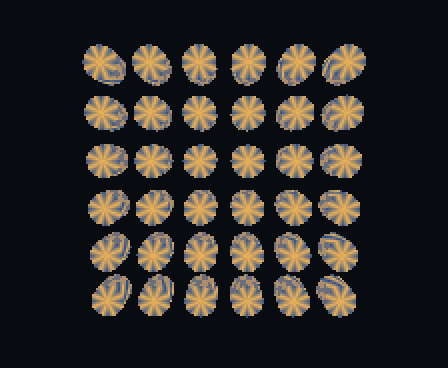
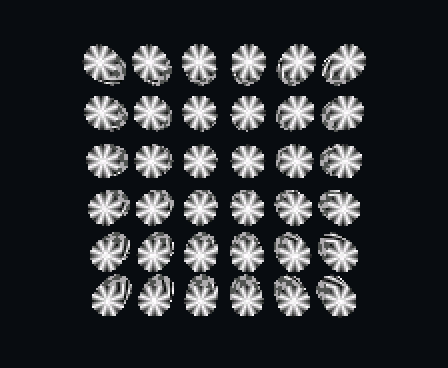
render_lab stress: noisy-tiny's slivers fail the small-fill gate at every side they take
Black and white noise puts every channel past the gate's resolved spread;
the test reads the spread from r3d_span_small_fill_resolve, not a constant.
One owner for a per-frame surface, the cylinder sized from its span.

Changed region(s): [[0.1875, 0.3886, 0.8125, 0.8668], [0.1875, 0.1196, 0.8125, 0.3587]]

diff --git a/launcher/main/apps/render_lab/stress/scene_stress.c b/launcher/main/apps/render_lab/stress/scene_stress.c
@@ -228,18 +228,19 @@ scene_stress_path(void) {
 
 /* A still preset can have frames generated: only the camera moves. */
 #define STRESS_SCENE_ROW(id_, key_, surface_, ...)                                                                     \
-    [STRESS_##id_] = {.name = "Stress " key_,                                                                          \
-                      .key = STRESS_SCENE "-" key_,                                                                    \
-                      .family = "Stress",                                                                              \
-                      .variant = key_,                                                                                 \
-                      .data = &stress_presets[STRESS_##id_],                                                           \
-                      .enter = scene_stress_enter,                                                                     \
-                      .frame = scene_stress_frame,                                                                     \
-                      .exit = scene_stress_exit,                                                                       \
-                      .update = scene_stress_update,                                                                   \
-                      .status = RENDER_LAB_SCENE_DEV(scene_stress_status),                                             \
-                      .controls = STRESS_SURFACE_##surface_ == STRESS_SURFACE_WAVE ? NULL : scene_baked_controls,      \
-                      .generates_frames = STRESS_SURFACE_##surface_ != STRESS_SURFACE_WAVE,                            \
-                      .path = scene_stress_path},
+    [STRESS_##                                                                                                         \
+        id_] = {.name = "Stress " key_,                                                                                \
+                .key = STRESS_SCENE "-" key_,                                                                          \
+                .family = "Stress",                                                                                    \
+                .variant = key_,                                                                                       \
+                .data = &stress_presets[STRESS_##id_],                                                                 \
+                .enter = scene_stress_enter,                                                                           \
+                .frame = scene_stress_frame,                                                                           \
+                .exit = scene_stress_exit,                                                                             \
+                .update = scene_stress_update,                                                                         \
+                .status = RENDER_LAB_SCENE_DEV(scene_stress_status),                                                   \
+                .controls = STRESS_SURFACE_IS_PER_FRAME(STRESS_SURFACE_##surface_) ? NULL : scene_baked_controls,      \
+                .generates_frames = !STRESS_SURFACE_IS_PER_FRAME(STRESS_SURFACE_##surface_),                           \
+                .path = scene_stress_path},
 
 const render_lab_scene_t scene_stress[STRESS_PRESET_COUNT] = {STRESS_PRESETS(STRESS_SCENE_ROW)};

diff --git a/launcher/main/apps/render_lab/tests/suite_stress_preset.c b/launcher/main/apps/render_lab/tests/suite_stress_preset.c
@@ -18,6 +18,7 @@
 #include "apps/render_lab/stress/stress_preset.h"
 #include "gfx/gfx.h"
 #include "image/pixel/rgb565.h"
+#include "math/scalar/math_const.h"
 #include "render/dynamic/r3d_dynamic_mesh.h"
 #include "render/r3d_span.h"
 
@@ -100,6 +101,11 @@ test_every_preset_mesh_is_whole_and_repeats(void) {
         TEST_ASSERT_TRUE(stress_source(p, 0, &f.at[1], &b));
         TEST_ASSERT_EQUAL_INT(stress_vertex_count(p), a.vertex_count);
         TEST_ASSERT_EQUAL_INT(stress_triangle_count(p), a.triangle_count);
+        for (int t = 0; t < a.triangle_count; t++) {
+            for (int k = 0; k < 3; k++) {
+                TEST_ASSERT_LESS_THAN_INT(a.vertex_count, a.triangles[t][k]);
+            }
+        }
         TEST_ASSERT_TRUE(same_source(&a, &b));
         release();
     }
@@ -271,7 +277,8 @@ test_two_sided_is_a_closed_shape_drawn_from_both_sides(void) {
     TEST_ASSERT_EQUAL_INT(STRESS_SHAPE_CUBE, stress_presets[STRESS_TWO_SIDED].shape);
 }
 
-/* The widest per-channel spread of a triangle's corners, in RGB565 units, as the small-fill gate measures it. */
+/* The widest per-channel spread of a triangle's corners, in RGB565 units, as the small-fill gate measures it: its
+ * packing keeps each 8-bit channel's top bits, as RGB565() does. */
 static int
 corner_spread(const r3d_dynamic_source_t* s, int t) {
     unsigned low[3] = {UINT32_MAX, UINT32_MAX, UINT32_MAX};
@@ -292,19 +299,28 @@ corner_spread(const r3d_dynamic_source_t* s, int t) {
     return widest;
 }
 
-/* Noisy tiny: slivers big enough for the small-fill gate to test, each
- * spread past the loosest gate, so the test is paid for and always fails. */
+/* Noisy tiny: slivers the small-fill gate tests, each spread past the
+ * gate at every side a sliver can take, so the test is paid for and always
+ * fails. A fan's slivers run from its centre to two rim points
+ * 2pi/segments apart, so the narrowest, at 45 degrees, is still
+ * cos(pi/4 - pi/segments) of the radius across. */
 static void
 test_noisy_tiny_slivers_are_gated_and_fail_the_gate(void) {
     const stress_params_t* p = &stress_presets[STRESS_NOISY_TINY];
-    const float cut = stress_cut_px(p, DEFAULT_SHORT_PX);
-    TEST_ASSERT_GREATER_THAN_FLOAT((float)R3D_SPAN_SMALL_MAX_SIDE, cut);
-    TEST_ASSERT_LESS_OR_EQUAL_FLOAT((float)SMALL_FILL_CEILING_FAST, cut);
+    const float radius = stress_cut_px(p, DEFAULT_SHORT_PX);
+    const int widest = (int)ceilf(radius);
+    const int narrowest = (int)floorf(radius * cosf((MATH_PI / 4.0F) - (MATH_PI / (float)p->cuts)));
+    r3d_span_small_fill_t gate;
+    r3d_span_small_fill_resolve(&gate, SMALL_FILL_FAST);
+    TEST_ASSERT_GREATER_THAN_INT(R3D_SPAN_SMALL_MAX_SIDE, narrowest);
+    TEST_ASSERT_LESS_OR_EQUAL_INT(gate.ceiling, widest);
     fixture_begin(p);
     r3d_dynamic_source_t source;
     TEST_ASSERT_TRUE(stress_source(p, 0, &f.at[0], &source));
     for (int t = 0; t < source.triangle_count; t++) {
-        TEST_ASSERT_GREATER_THAN_INT(SMALL_FILL_GATE_FAST, corner_spread(&source, t));
+        for (int side = narrowest; side <= widest; side++) {
+            TEST_ASSERT_GREATER_THAN_INT(gate.spread[side], corner_spread(&source, t));
+        }
     }
     release();
 }

diff --git a/launcher/main/apps/render_lab/stress/stress_preset.c b/launcher/main/apps/render_lab/stress/stress_preset.c
@@ -34,6 +34,10 @@ const stress_params_t stress_presets[STRESS_PRESET_COUNT] = {
  * top, so a triangle's corners differ as a lit surface's would. */
 static const uint8_t stress_colour_low[3] = {0x2A, 0x4F, 0x8C};
 static const uint8_t stress_colour_high[3] = {0xE8, 0xB0, 0x5A};
+/* A noisy copy's two colours, every channel as far apart as it goes: no
+ * small-fill gate passes corners this far apart. */
+static const uint8_t stress_noise_low[3] = {0, 0, 0};
+static const uint8_t stress_noise_high[3] = {UINT8_MAX, UINT8_MAX, UINT8_MAX};
 #define STRESS_BANDS          3
 /* A per-frame copy's wave: the bands run up it once a period, and push its
  * surface out along the normal by up to this much of a unit. */
@@ -70,9 +74,9 @@ shapes_of(const stress_params_t* p) {
         .plane = {.subdivisions = p->cuts},
         .sphere = {.segments = sphere_segments(p->cuts), .rings = p->cuts},
         .cube = {.subdivisions = p->cuts},
-        .cylinder = {.top_radius = 0.5F,
-                     .bottom_radius = 0.5F,
-                     .height = 1.0F,
+        .cylinder = {.top_radius = shape_span(STRESS_SHAPE_CYLINDER) / 2.0F,
+                     .bottom_radius = shape_span(STRESS_SHAPE_CYLINDER) / 2.0F,
+                     .height = shape_span(STRESS_SHAPE_CYLINDER),
                      .segments = p->cuts,
                      .stacks = STRESS_CYLINDER_STACKS},
     };
@@ -120,7 +124,7 @@ band(float up, float turns) {
     return 0.5F + (0.5F * cosf(MATH_TAU * ((up * (float)STRESS_BANDS) - turns)));
 }
 
-/* Banded by height, or for a noisy surface the low colour and the high by
+/* Banded by height, or for a noisy surface its low colour and its high by
  * turns: every triangle has two vertices in a row, so its corners differ by
  * the whole range. */
 static float
@@ -135,13 +139,16 @@ static void
 colour_and_wave(const stress_params_t* p, uint32_t t_ms, int vertex_count, const stress_buffers_t* b) {
     const bool per_frame = stress_per_frame(p);
     const float turns = per_frame ? (float)(t_ms % STRESS_WAVE_PERIOD_MS) / (float)STRESS_WAVE_PERIOD_MS : 0.0F;
+    const bool noisy = p->surface == STRESS_SURFACE_NOISY;
+    const uint8_t* low = noisy ? stress_noise_low : stress_colour_low;
+    const uint8_t* high = noisy ? stress_noise_high : stress_colour_high;
     for (int v = 0; v < vertex_count; v++) {
         const float s = shade(p, v, b->positions[v], turns);
         for (int c = 0; c < 3; c++) {
-            b->colors[v][c] =
-                (uint8_t)lroundf(stress_colour_low[c] + ((float)(stress_colour_high[c] - stress_colour_low[c]) * s));
+            b->colors[v][c] = (uint8_t)lroundf(low[c] + ((float)(high[c] - low[c]) * s));
         }
         if (per_frame) {
+            /* The position is the normal only on the unit sphere. */
             const vec3f_t normal = p->shape == STRESS_SHAPE_PLANE ? vec3f_unit_z() : b->positions[v];
             b->positions[v] = vec3f_add(b->positions[v], vec3f_scale(normal, STRESS_WAVE_HEIGHT * ((2.0F * s) - 1.0F)));
         }

diff --git a/launcher/main/apps/render_lab/tools/tests/test_stress_corners.py b/launcher/main/apps/render_lab/tools/tests/test_stress_corners.py
@@ -6,9 +6,11 @@ Builds the host renderer once and draws every preset stress_preset.h names
 with --view cull --counts, then holds each to what it is the loss case of:
 open hides and culls nothing, stack hides most of what it keeps, tiny copies
 are all in view and all drawn, big tris draws every triangle it submits,
-two-sided cubes skip nothing facing away, noisy tiny cylinders are all drawn, and
+two-sided cubes skip nothing facing away, noisy tiny cylinders are all in
+view with every copy drawn, and
 before a still camera only the per-frame preset's frames differ. The sizes the
-triangles are drawn at are suite_stress_preset.c's to hold.
+triangles are drawn at, and the small-fill gate failing noisy-tiny's slivers,
+are suite_stress_preset.c's to hold.
 """
 import csv
 import pathlib

diff --git a/launcher/main/apps/render_lab/stress/stress_preset.h b/launcher/main/apps/render_lab/stress/stress_preset.h
@@ -62,10 +62,13 @@ typedef enum { STRESS_PRESETS(STRESS_PRESET_ID) STRESS_PRESET_COUNT } stress_pre
 
 extern const stress_params_t stress_presets[STRESS_PRESET_COUNT];
 
-/* Whether a preset's mesh is made again every frame. */
+/* Whether a surface's mesh is made again every frame: a constant
+ * expression, so a static table can read it. */
+#define STRESS_SURFACE_IS_PER_FRAME(surface_) ((surface_) == STRESS_SURFACE_WAVE)
+
 static inline bool
 stress_per_frame(const stress_params_t* p) {
-    return p->surface == STRESS_SURFACE_WAVE;
+    return STRESS_SURFACE_IS_PER_FRAME(p->surface);
 }
 
 /* A copy's mesh: the shape's vertex and triangle counts. */
